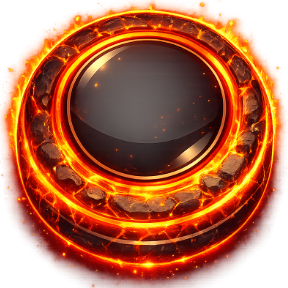
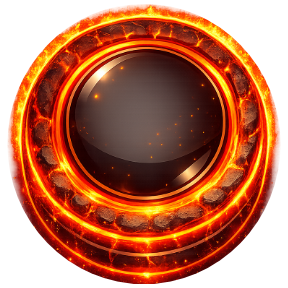
うみとマグマのパックを差し替えた
- うみ … 真珠と貝がらのパック。残像の色も桜色に変更
- マグマ … 炎の輪がより強いパック

どちらも元絵の背景がグラデーションで色の差だけでは抜けなかったため、
円盤の形（楕円）で切り抜いて背景と光を落とした。
マグマは炎の外側が少し残るよう、切り抜きを7%大きくしている。

Claude-Session: https://claude.ai/code/session_01J1tKvnQEzfrTpRt6QKbNhq

diff --git a/index.html b/index.html
@@ -30,7 +30,7 @@
   'use strict';
 
   // 更新したら必ずここと sw.js の CACHE を上げる
-  var APP_VERSION = '3.3.0';
+  var APP_VERSION = '3.3.2';
 
   var cvs = document.getElementById('g');
   var ctx = cvs.getContext('2d');
@@ -115,7 +115,7 @@
       fld:{ x0:0.0680, x1:0.9278, y0:0.0826, y1:0.9223, mid:0.4926, goal:0.1629, circle:0.093 } },
     { key:'forest', src:'stage-forest.jpg', puck:'puck-forest.png', tc:'#2f6b26',
       fld:{ x0:0.0820, x1:0.9180, y0:0.0740, y1:0.9208, mid:0.4952, goal:0.1585, circle:0.093 } },
-    { key:'water',  src:'stage-water.jpg',  puck:'puck-water.png',  tc:'#1a80bd',
+    { key:'water',  src:'stage-water.jpg',  puck:'puck-water.png',  tc:'#dfa2a6',
       fld:{ x0:0.0820, x1:0.9180, y0:0.0740, y1:0.9208, mid:0.4952, goal:0.1585, circle:0.093 } },
     { key:'lava',   src:'stage-lava.jpg',   puck:'puck-lava.png',   tc:'#d0430a',
       fld:{ x0:0.0820, x1:0.9180, y0:0.0740, y1:0.9208, mid:0.4952, goal:0.1585, circle:0.093 } }

diff --git a/sw.js b/sw.js
@@ -1,6 +1,6 @@
 /* オフラインでも遊べるようにキャッシュする。
    中身を更新したら CACHE の番号と index.html の APP_VERSION を必ず上げること。 */
-var CACHE = 'hockey-v30';
+var CACHE = 'hockey-v32';
 
 var ASSETS = [
   './',

diff --git a/README.md b/README.md
@@ -96,7 +96,7 @@
 
 ## バージョンと自動更新
 
-タイトル画面の**左下に小さくバージョン**が出ます（例 `v3.3.0`）。
+タイトル画面の**左下に小さくバージョン**が出ます（例 `v3.3.2`）。
 更新したかどうかは、ここを見れば分かります。
 
 更新はできるだけ早く届くようにしてあります。
@@ -119,7 +119,7 @@
 | ファイル | 場所 |
 | --- | --- |
 | `index.html` | `APP_VERSION`（画面左下に出る番号） |
-| `sw.js` | `CACHE`（`hockey-v30` の数字） |
+| `sw.js` | `CACHE`（`hockey-v32` の数字） |
 
 ## 中身
 
@@ -143,7 +143,6 @@
 | `title-bg.jpg` | タイトルの背景 |
 | `btn-start.png` / `btn-solo.png` / `btn-duo.png` | ボタンの画像 |
 | `mallet-red.png` / `mallet-blue.png` | マレット |
-
 | `title.mp3` | タイトルの音楽 |
 | `icon-192-2.png` / `icon-512-2.png` / `icon-512-maskable-2.png` | ホーム画面アイコン |
 
